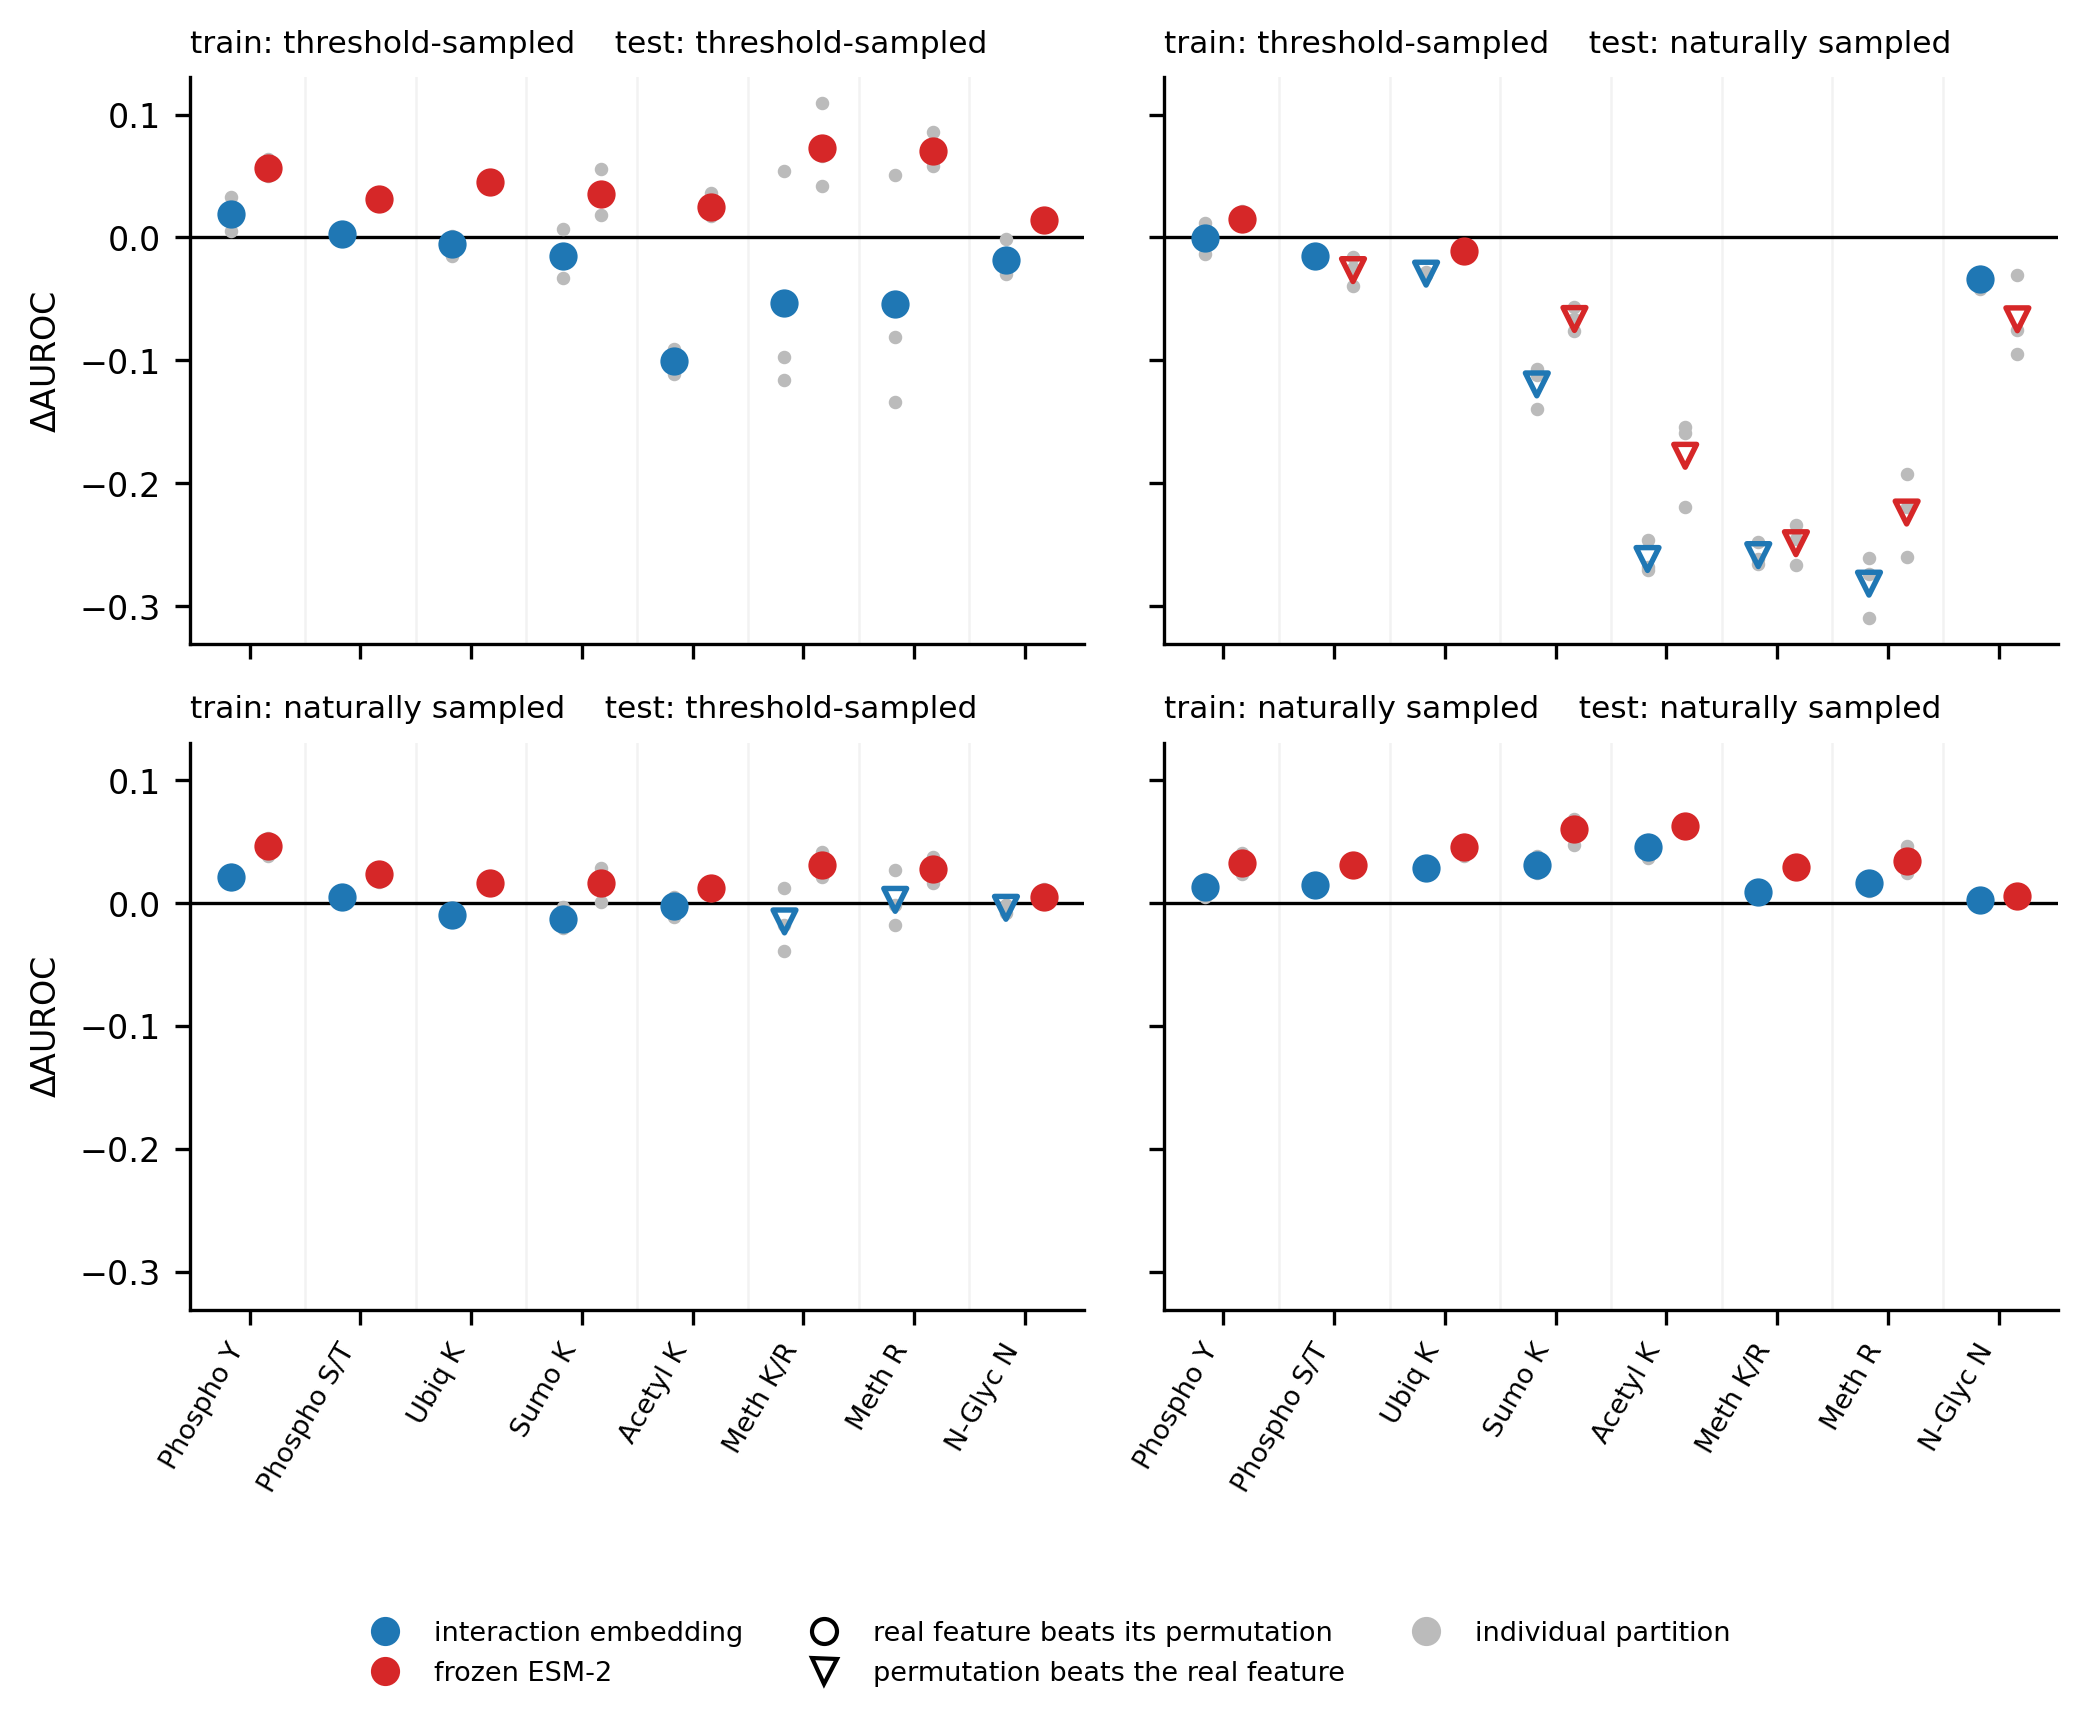
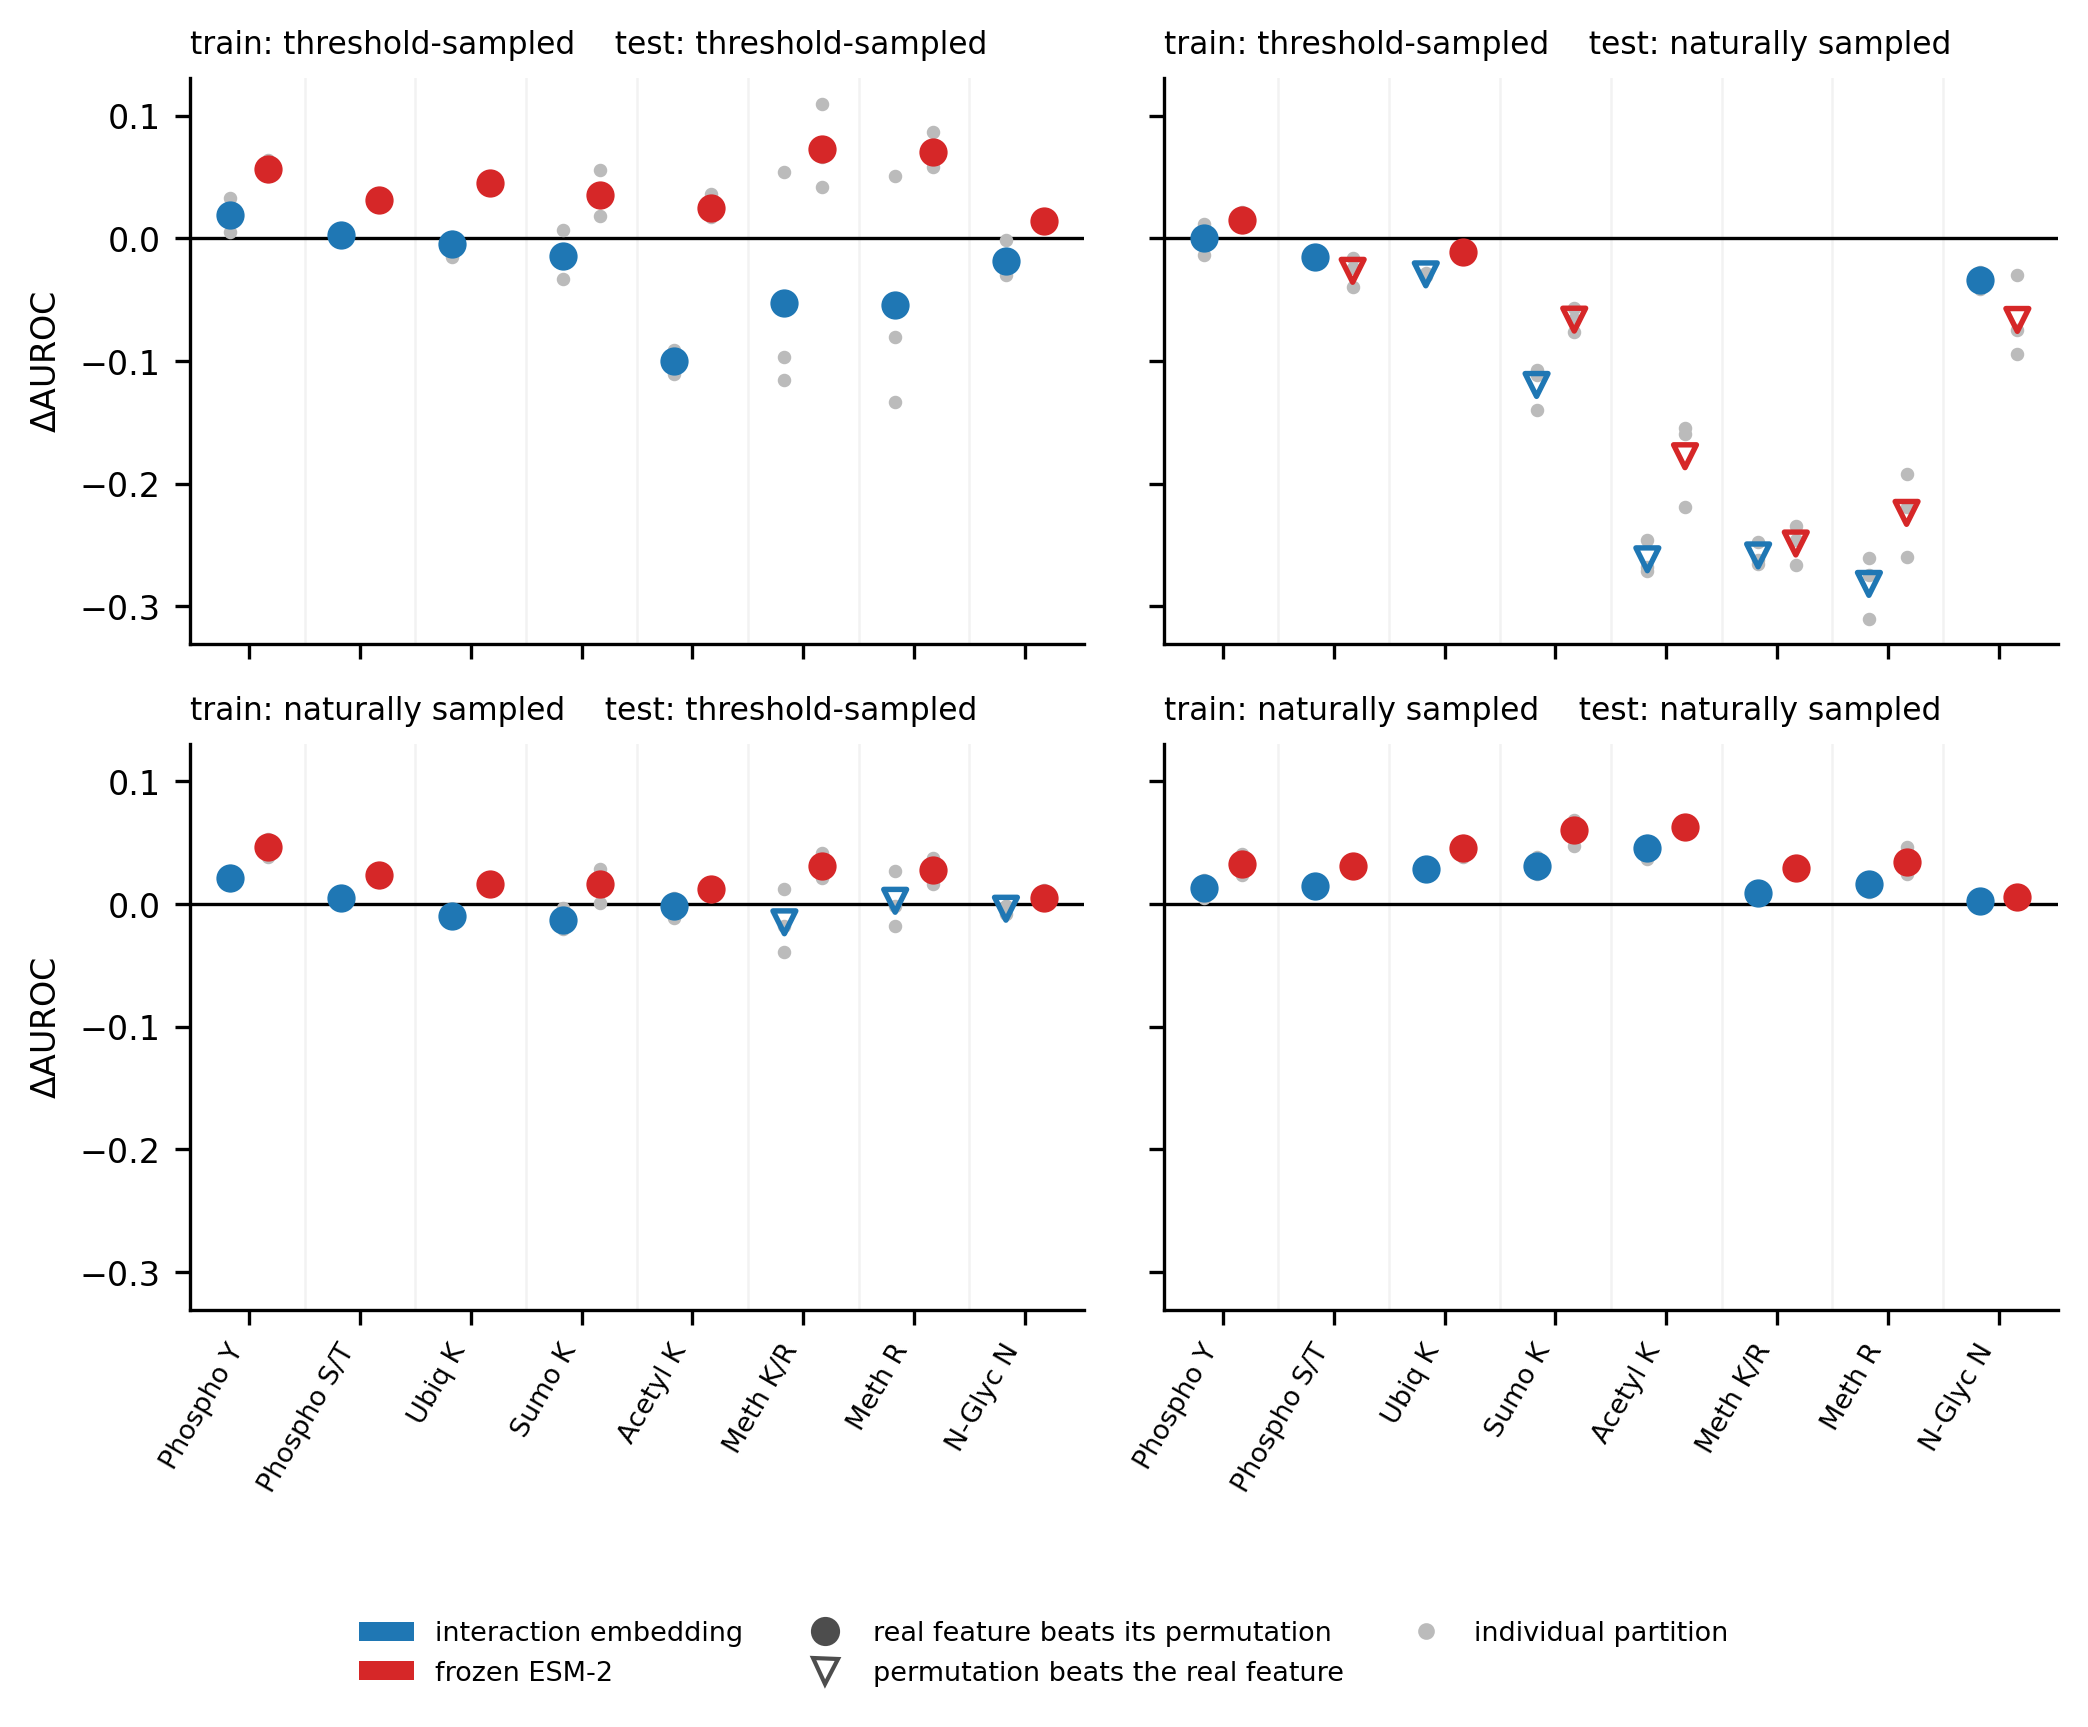
figures: fix feature-family detection broken by the ProtT5 arm
load() classified anything not ending in __esm as the interaction embedding,
so ProtT5 runs silently overwrote the interaction series. Also separates the
colour and shape channels in the Figure 4 legend and corrects a legend handle
that was drawn hollow where the plot draws it filled.

diff --git a/analysis/patch_fig4.py b/analysis/patch_fig4.py
@@ -1,0 +1,81 @@
+#!/usr/bin/env python3
+"""Patch make_figure_merged.py: feature-family detection and legend encoding.
+
+Two changes.
+
+1. load() classified any file not ending in '__esm' as the interaction
+   embedding.  That was correct while only two families existed; with the
+   ProtT5 runs in the same directory it silently overwrites the interaction
+   series with ProtT5 values.  Files are now matched against an explicit list
+   of suffixed families, longest suffix first.
+
+2. The legend used filled circles for the two feature families, the same glyph
+   the plot uses for "real feature beats its permutation", so the colour and
+   shape channels were not separable by eye.  Worse, the handle for "beats its
+   permutation" was drawn hollow while the plot draws it filled, so the legend
+   contradicted the figure.  Families now use colour swatches and the
+   win/lose handles are neutral grey, which reads as "shape only; colour is
+   carried separately".
+"""
+from pathlib import Path
+
+P = Path("make_figure_merged.py")
+s = P.read_text(encoding="utf-8")
+log = []
+
+
+def sub(old, new, label):
+    global s
+    n = s.count(old)
+    assert n == 1, f"[{label}] 期望 1 处,实际 {n}"
+    s = s.replace(old, new, 1)
+    log.append(label)
+
+
+# ── 1. 特征族识别 ───────────────────────────────────────────────────
+sub("from matplotlib.lines import Line2D",
+    "from matplotlib.lines import Line2D\nfrom matplotlib.patches import Patch",
+    "import Patch")
+
+sub("C_PPI, C_ESM, C_PART = '#1f77b4', '#d62728', '#bbbbbb'",
+    "C_PPI, C_ESM, C_PART = '#1f77b4', '#d62728', '#bbbbbb'\n"
+    "C_MARK = '0.30'          # shape channel only; colour means the family\n"
+    "# Suffixed feature families. 'ppi' carries no suffix and holds the\n"
+    "# baselines, so anything unmatched must fall through to it -- which is\n"
+    "# why the list has to be explicit rather than a single '__esm' test.\n"
+    "SUFFIXED = ('prott5', 'esm')",
+    "定义 SUFFIXED 与 C_MARK")
+
+sub("""        feat = 'esm' if os.path.basename(f)[:-5].endswith('__esm') else 'ppi'""",
+    """        stem = os.path.basename(f)[:-5]
+        feat = next((k for k in SUFFIXED if stem.endswith('__' + k)), 'ppi')""",
+    "load() 按后缀表识别特征族")
+
+# ── 2. 图例 ─────────────────────────────────────────────────────────
+sub("""    fig.legend(handles=[
+        Line2D([], [], marker='o', ls='', color=C_PPI, label='interaction embedding'),
+        Line2D([], [], marker='o', ls='', color=C_ESM, label='frozen ESM-2'),
+        Line2D([], [], marker='o', ls='', mfc='none', mec='k', color='k',
+               label='real feature beats its permutation'),
+        Line2D([], [], marker='v', ls='', mfc='none', mec='k', color='k',
+               label='permutation beats the real feature'),
+        Line2D([], [], marker='o', ls='', color=C_PART, label='individual partition'),
+    ], frameon=False, fontsize=6.5, loc='lower center', ncol=3,
+        bbox_to_anchor=(0.5, -0.06))""",
+    """    fig.legend(handles=[
+        Patch(facecolor=C_PPI, edgecolor='none', label='interaction embedding'),
+        Patch(facecolor=C_ESM, edgecolor='none', label='frozen ESM-2'),
+        Line2D([], [], marker='o', ls='', mfc=C_MARK, mec=C_MARK,
+               label='real feature beats its permutation'),
+        Line2D([], [], marker='v', ls='', mfc='none', mec=C_MARK,
+               label='permutation beats the real feature'),
+        Line2D([], [], marker='.', ls='', color=C_PART,
+               label='individual partition'),
+    ], frameon=False, fontsize=6.5, loc='lower center', ncol=3,
+        bbox_to_anchor=(0.5, -0.06))""",
+    "图例:特征族用色块,胜负用中性灰形状")
+
+P.write_text(s, encoding="utf-8")
+print(f"完成 {len(log)} 处:")
+for i, t in enumerate(log, 1):
+    print(f"  {i}. {t}")

diff --git a/analysis/make_figures_v2.py b/analysis/make_figures_v2.py
@@ -64,7 +64,11 @@ def pred_path(ptm, train, cond, split, feat, test):
 def load_metrics(metric='auroc'):
     R = defaultdict(dict)
     for f in glob.glob(f'{BASE}/pdisjoint_runs_v2/*.json'):
-        feat = 'esm' if os.path.basename(f)[:-5].endswith('__esm') else 'ppi'
+        # 'ppi' has no suffix and holds the baselines, so unmatched files
+        # fall through to it; the list must be explicit, longest first.
+        stem = os.path.basename(f)[:-5]
+        feat = next((k for k in ('prott5', 'esm')
+                     if stem.endswith('__' + k)), 'ppi')
         r = json.load(open(f))
         for t in ('replica', 'rebuilt'):
             R[(r['ptm'], r['dataset'], t, feat)][(r['cond'], r['split_seed'])] = \
